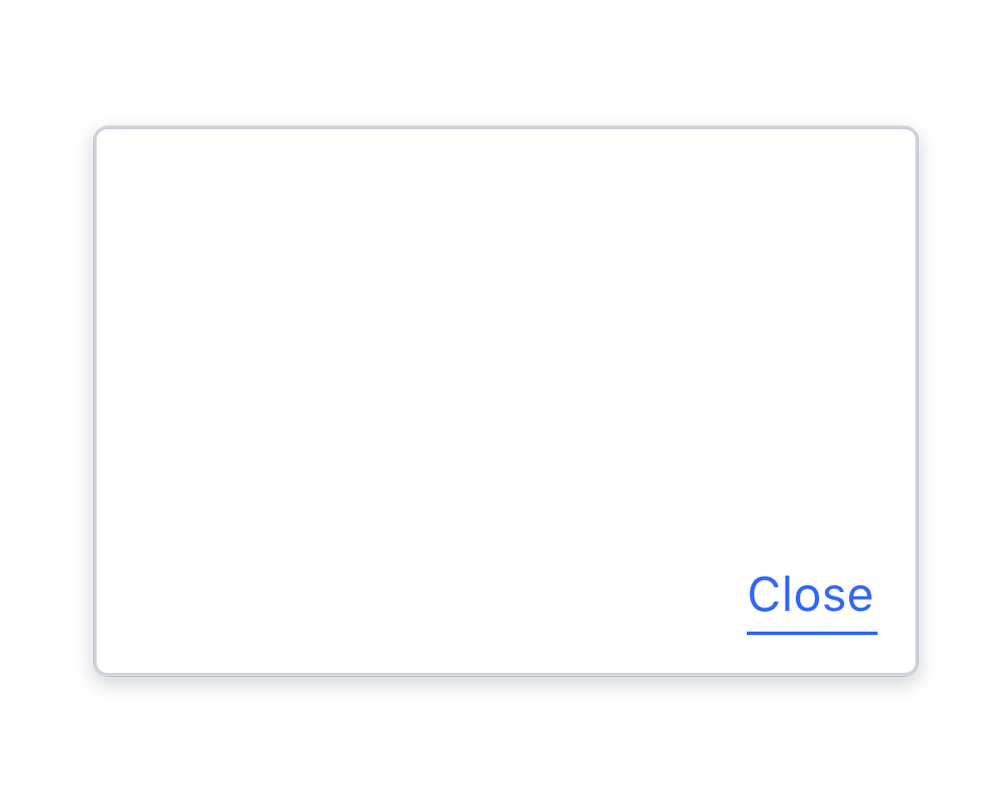
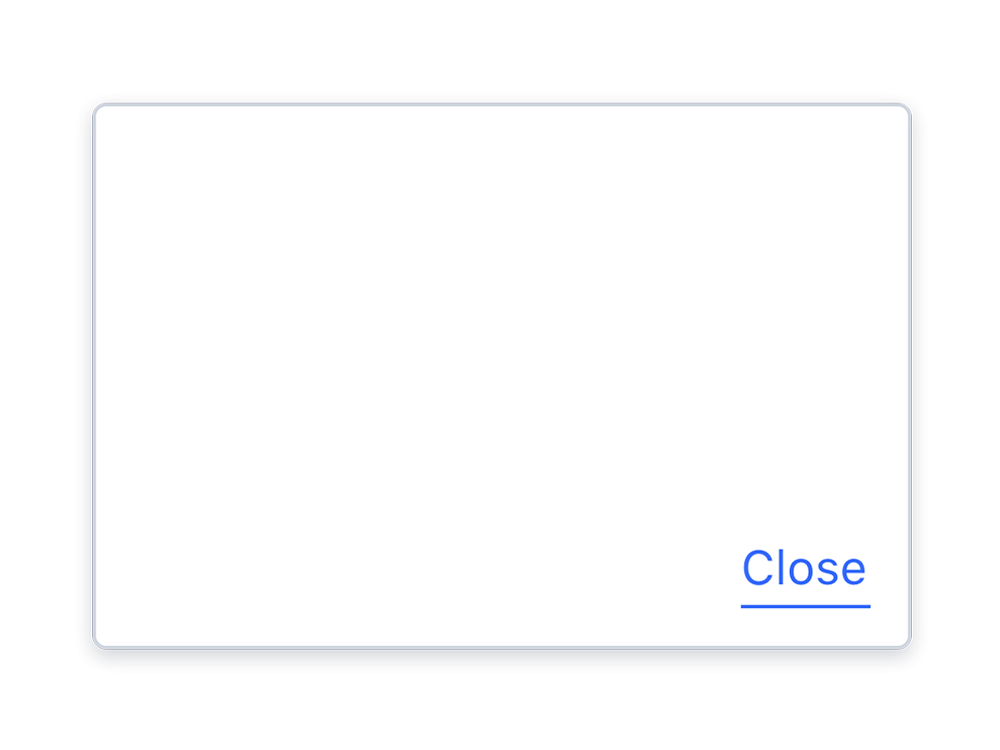
feat(website): aspect ratio component, adjust image size to be 4:3

Changed region(s): [[0.093, 0.7053, 0.93, 0.8893], [0.093, 0.1227, 0.93, 0.184]]

diff --git a/packages/paste-website/src/components/AspectRatio.tsx b/packages/paste-website/src/components/AspectRatio.tsx
@@ -1,0 +1,57 @@
+/** @jsx jsx */
+import * as React from 'react';
+import {jsx} from '@emotion/core';
+import styled from '@emotion/styled';
+import {Absolute} from '@twilio-paste/absolute';
+import {Box} from '@twilio-paste/box';
+
+interface AspectRatioProps {
+  aspectRatio: string;
+  children: React.ReactElement;
+}
+
+const RATIO_REGEX = /^([0-9]+:[0-9]*)$/;
+
+const isCorrectPattern = (ratio: string): boolean => RATIO_REGEX.test(ratio);
+
+const handlePropValidation = ({aspectRatio, children}: AspectRatioProps): void => {
+  const hasRatio = aspectRatio != null && aspectRatio !== '';
+
+  if (!hasRatio) {
+    throw new Error(`[Paste: AspectRatio] Missing hasRatio prop for AspectRatio.`);
+  }
+
+  if (!isCorrectPattern(aspectRatio)) {
+    throw new Error(
+      `[Paste: AspectRatio] hasRatio prop for AspectRatio is incorrect. Use a colon separated number pattern like 4:3.`
+    );
+  }
+
+  if (children == null) {
+    throw new Error(`[Paste: AspectRatio] Must have non-null children.`);
+  }
+};
+
+const AspectRatioContainer = styled(Box)`
+  position: relative;
+  min-width: auto;
+`;
+
+const AspectRatio: React.FC<AspectRatioProps> = props => {
+  handlePropValidation(props);
+
+  const aspectArray = props.aspectRatio.split(':').map(Number);
+  const aspectPercent = (aspectArray[1] / aspectArray[0]) * 100;
+
+  return (
+    <AspectRatioContainer css={{paddingBottom: `${aspectPercent}%`}}>
+      <Absolute>{props.children}</Absolute>
+    </AspectRatioContainer>
+  );
+};
+
+AspectRatio.defaultProps = {
+  aspectRatio: '4:3',
+};
+
+export {AspectRatio};

diff --git a/packages/paste-website/src/components/DoDont.tsx b/packages/paste-website/src/components/DoDont.tsx
@@ -28,10 +28,14 @@ const DoDontImage = styled(Box)`
 `;
 
 const DoDontComponent = styled(Box)`
+  position: absolute;
+  top: 0;
+  right: 0;
+  left: 0;
+  bottom: 0;
   display: flex;
   align-items: center;
   justify-content: center;
-  min-height: 313px;
   border: ${themeGet('borderWidths.borderWidth10')} solid #ccd2dc;
   border-bottom: 0;
 `;
